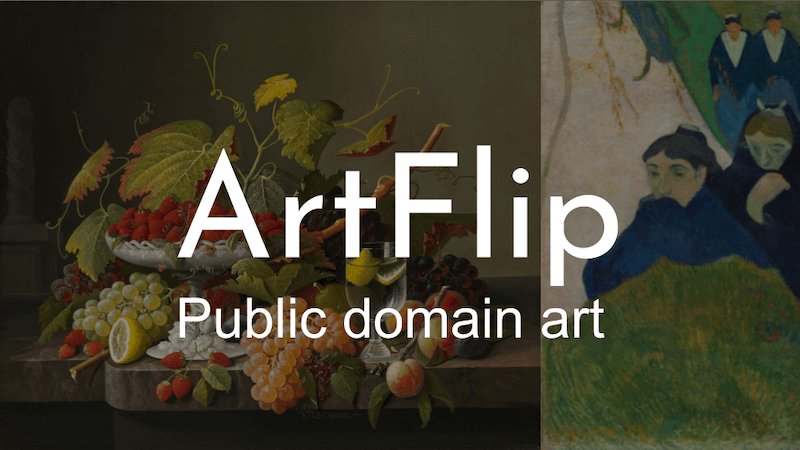
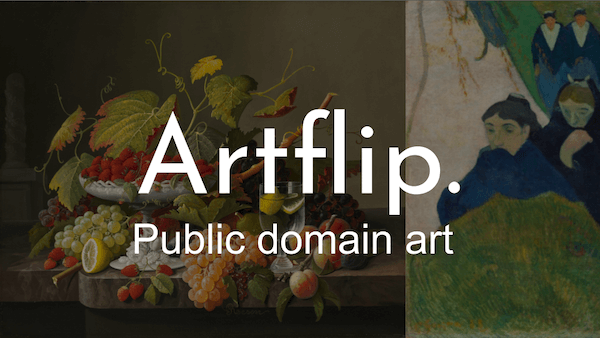
Artflip reformat

Changed region(s): [[0.21, 0.2959, 0.78, 0.6509], [0.21, 0.6805, 0.66, 0.7692], [0.69, 0.6805, 0.75, 0.7692]]

diff --git a/index.html b/index.html
@@ -5,7 +5,7 @@
     <meta name="viewport" content="width=device-width, initial-scale=1" />
     <link href="https://fonts.googleapis.com/css2?family=Josefin+Sans:wght@500" rel="stylesheet">
 
-    <title>ArtFlip</title>
+    <title>Artflip</title>
 
     <!-- Favicon -->
     <link rel="icon" type="image/x-icon" href="/favicon.ico" />
@@ -14,10 +14,10 @@
     <link rel="apple-touch-icon" href="/apple-touch-icon.png">
 
     <!-- Basic SEO -->
-    <meta name="description" content="ArtFlip finds public domain artworks from global museums." />
+    <meta name="description" content="Artflip finds public domain artworks from global museums." />
 
     <!-- Open Graph (Facebook, LinkedIn, etc.) -->
-    <meta property="og:title" content="ArtFlip" />
+    <meta property="og:title" content="Artflip" />
     <meta property="og:description" content="Flip through public domain artworks." />
     <meta property="og:type" content="website" />
     <meta property="og:url" content="https://artflip.me" />
@@ -27,7 +27,7 @@
 
     <!-- Twitter Card -->
     <meta name="twitter:card" content="summary_large_image" />
-    <meta name="twitter:title" content="ArtFlip" />
+    <meta name="twitter:title" content="Artflip" />
     <meta name="twitter:description" content="Flip through public domain artworks." />
     <meta name="twitter:image" content="https://artflip.me/_artflipcard.png" />
   </head>

diff --git a/src/App.svelte b/src/App.svelte
@@ -328,7 +328,7 @@
   <div class="container">
     <header>
       <div class="title-group">
-        <h1>ArtFlip</h1>
+        <h1>Artflip.</h1>
         <h2>Public domain art</h2>
       </div>
 
@@ -420,7 +420,7 @@
     <footer>
       <p class="footer-credit">
         All artworks displayed are in the public domain, available under Creative Commons Zero.<br>
-        ArtFlip by <a href="https://lewisdryburgh.com" target="_blank" rel="noopener noreferrer">Lewis Dryburgh</a>, 2025
+        Artflip by <a href="https://lewisdryburgh.com" target="_blank" rel="noopener noreferrer">Lewis Dryburgh</a>, 2025
       </p>
     </footer>
   </div>
